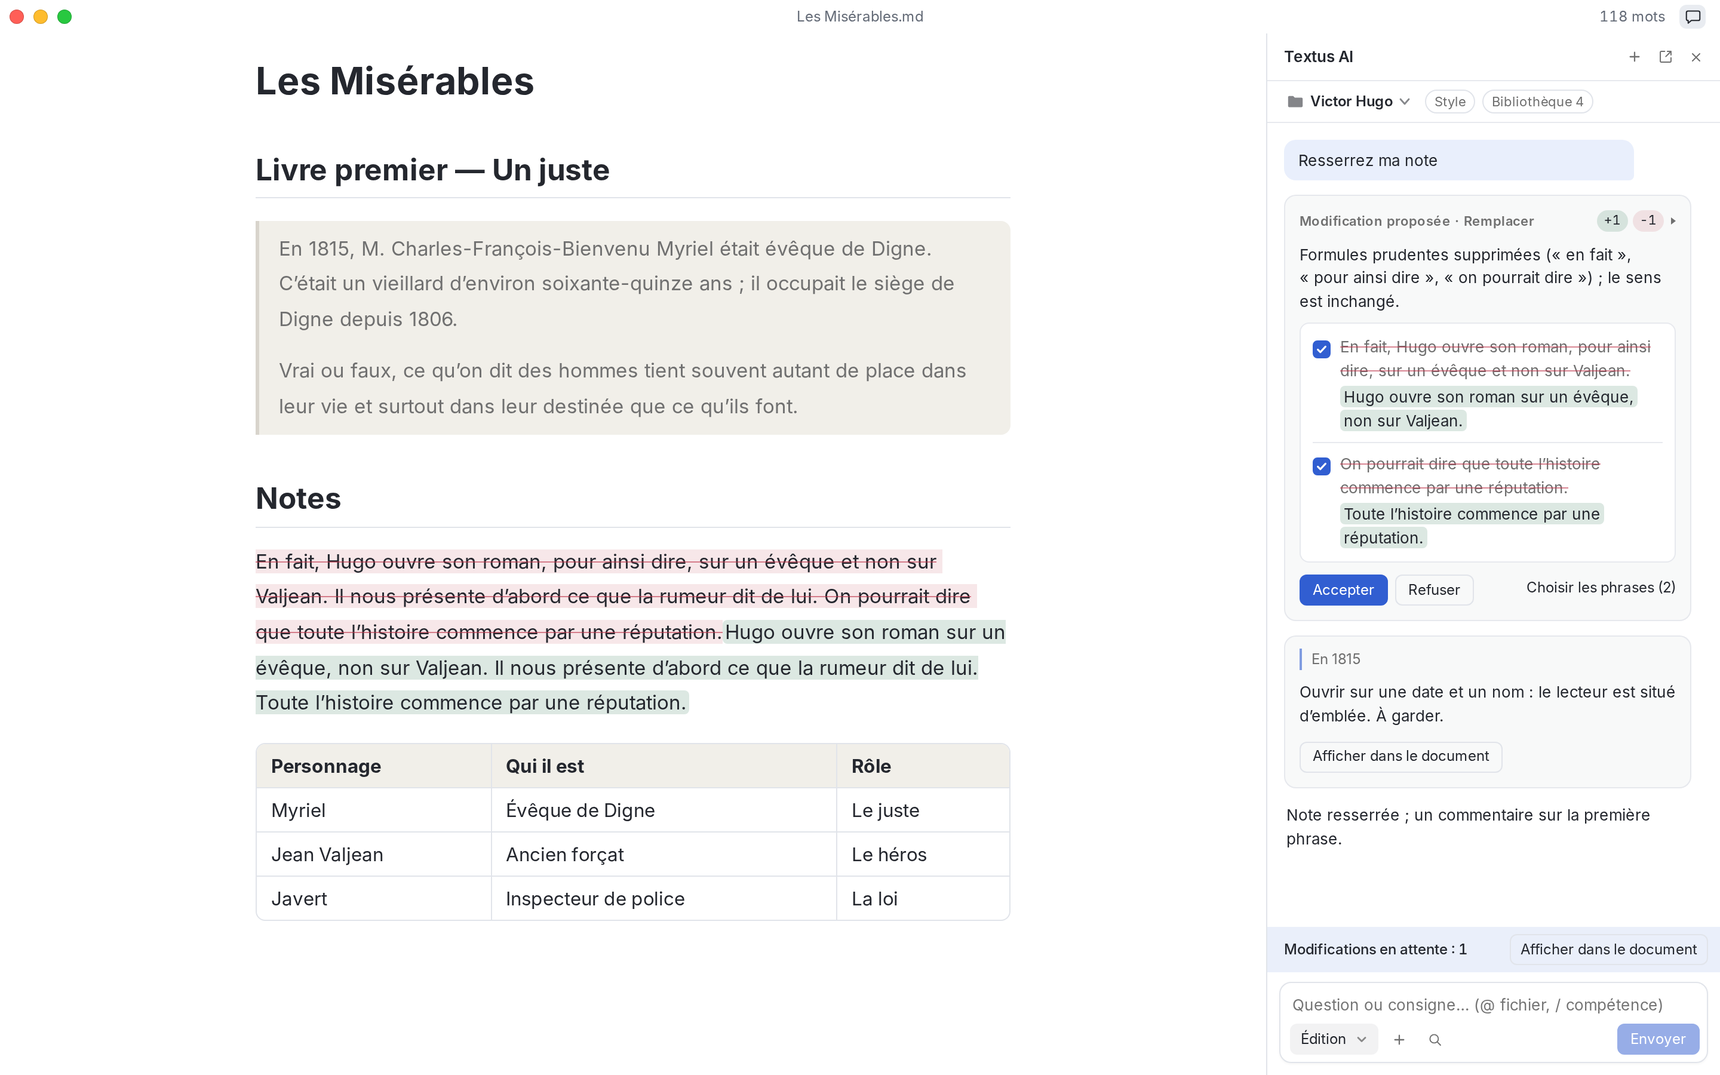
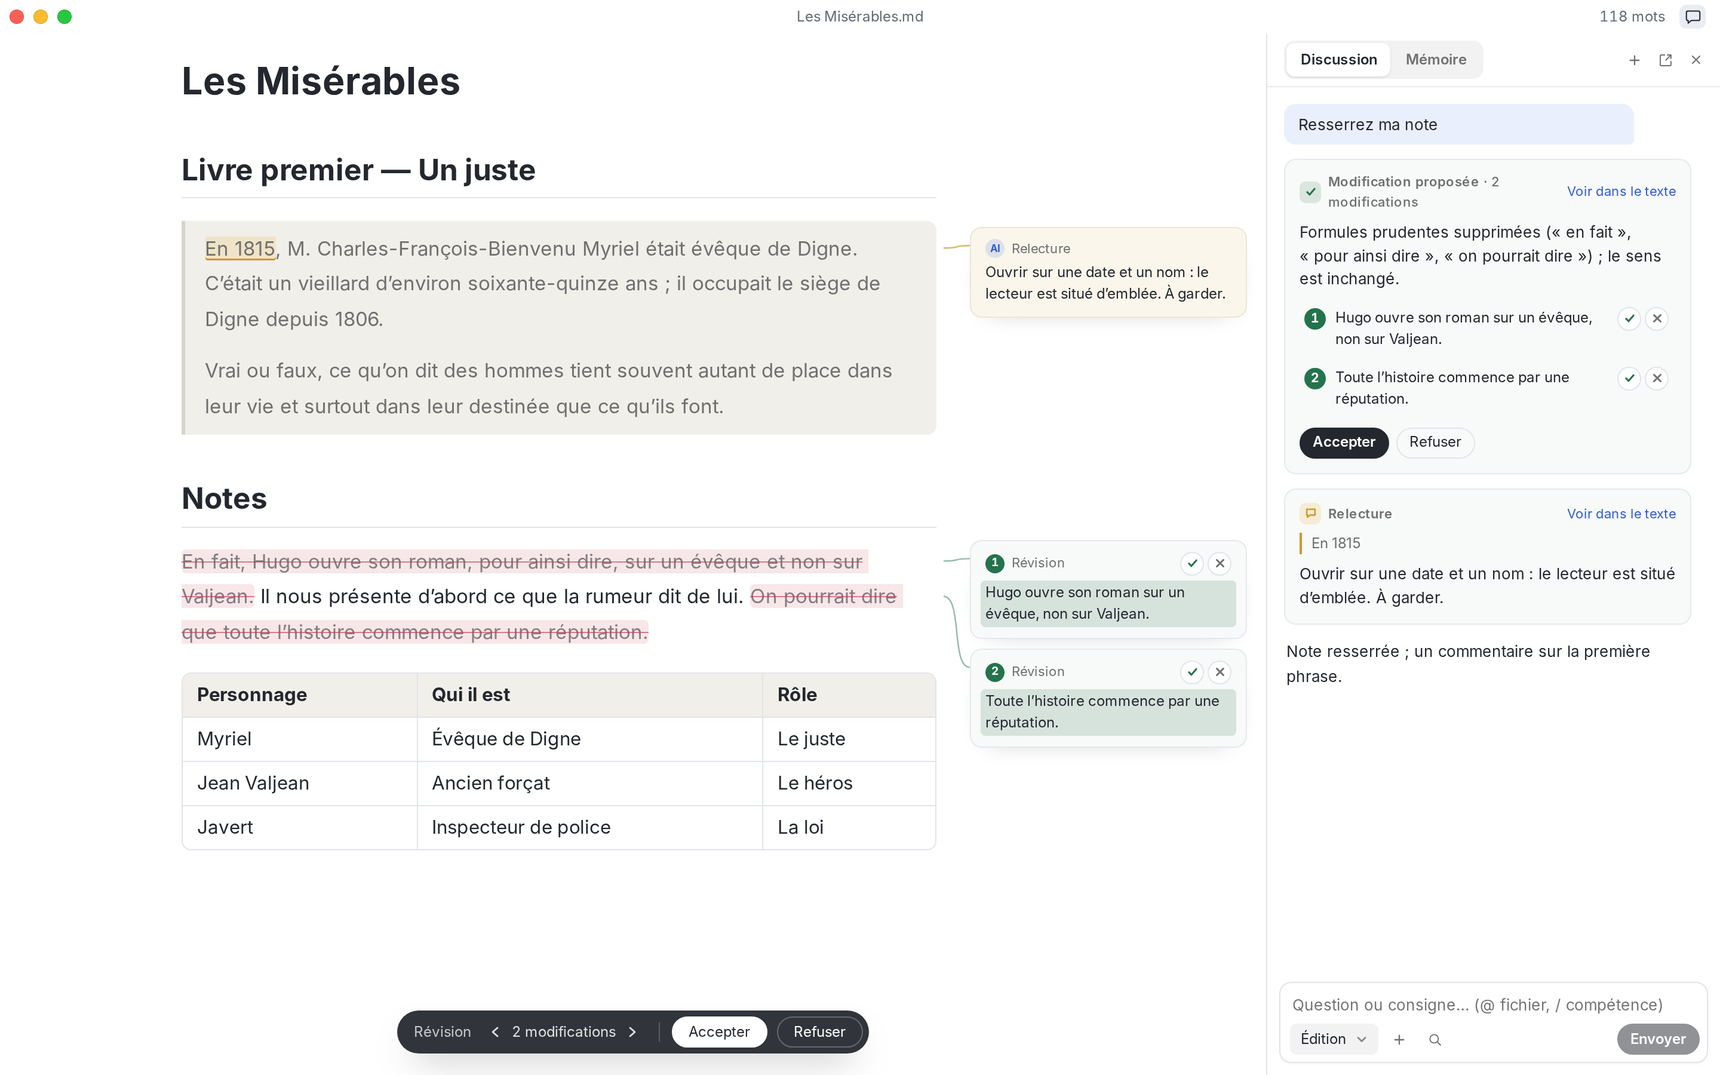
docs: README and site screenshots show the new AI surfaces
The hero shots now show the rewrite of the reader's notes in the margin
beside the review note, in all ten languages; their descriptions say so
(and name each page's own classic). Settings shots follow the new buttons.

diff --git a/e2e/website/website-shots.spec.ts b/e2e/website/website-shots.spec.ts
@@ -8,8 +8,9 @@
  * Each shot is <out>/<lang>/<name>.png (2880x1800) with a 1920-wide
  * <name>.webp beside it:
  *   hero      a classic text and a reader's note on it, the AI panel beside
- *             them with one proposed edit (its reason, the sentence picker
- *             open) and one review comment
+ *             them with one proposed edit to the note (its reason and its
+ *             two sentences, in the margin as well when there is room) and
+ *             one review comment on the classic
  *   split     split view: the Markdown source beside the page
  *   zen       zen mode, the passage being read lit
  *   math      a KaTeX formula block, inline math and a Mermaid mind map
@@ -1055,19 +1056,15 @@ for (const lang of LANGS) {
           { kind: "Assistant", text: s.reply },
         ],
       });
-      await expect(page.locator(".project-bar-name")).toHaveText(s.folder);
       const composer = page.locator(".agent-panel-view textarea");
       await composer.fill(s.ask);
       await composer.press("Enter");
       await expect(page.locator(".agent-comment")).toBeVisible();
       await expect(page.locator(".agent-proposal-reason")).toHaveText(s.reason);
-      await page.locator(".agent-proposal-picker-toggle").click();
-      await expect(page.locator(".agent-proposal-picker-list li")).toHaveCount(
-        2,
-      );
-      await expect(page.locator(".milkdown .pending-insert")).toHaveText(
-        s.edited,
-      );
+      // The rewrite sentence by sentence: marked in the text, listed in
+      // the card - and, with room for it, in the margin with the note.
+      await expect(page.locator(".milkdown .pending-sentence")).toHaveCount(2);
+      await expect(page.locator(".agent-proposal-sentences li")).toHaveCount(2);
       // The proposal's buttons and its sentence picker on one row: a label
       // too long for it drops onto a row of its own, a band of nothing.
       const middles = await page

diff --git a/README.ru.md b/README.ru.md
@@ -34,7 +34,7 @@
 </p>
 
 <p align="center">
-  <img src="docs/images/readme/ru/hero.png" alt="Textus с открытым «Гамлетом». Справа Textus AI предлагает правку с объяснением, по предложениям, и оставляет комментарий к строке." width="860" /><br>
+  <img src="docs/images/readme/ru/hero.png" alt="Textus с открытым романом «Анна Каренина» и заметками читателя. Textus AI сокращает заметки по предложениям, каждая правка на полях, и оставляет комментарий рядом с текстом." width="860" /><br>
   <sub><i>«Анна Каренина»</i>, Лев Толстой</sub>
 </p>
 

diff --git a/README.ja.md b/README.ja.md
@@ -34,7 +34,7 @@
 </p>
 
 <p align="center">
-  <img src="docs/images/readme/ja/hero.png" alt="『吾輩は猫である』を開いたTextus。横のパネルではTextus AIが一文ずつ理由を添えて修正を提案し、本文の一行にはレビューのコメントが付いている。" width="860" /><br>
+  <img src="docs/images/readme/ja/hero.png" alt="『吾輩は猫である』と読書メモを開いたTextus。Textus AIがメモを一文ずつ簡潔にし、修正は余白に並び、本文の横にはレビューのコメントが付いている。" width="860" /><br>
   <sub>夏目漱石『吾輩は猫である』</sub>
 </p>
 

diff --git a/README.fr.md b/README.fr.md
@@ -34,7 +34,7 @@
 </p>
 
 <p align="center">
-  <img src="docs/images/readme/fr/hero.png" alt="Textus avec Hamlet ouvert. À côté, Textus AI propose une modification avec son explication, phrase par phrase, et épingle un commentaire de relecture sur une ligne." width="860" /><br>
+  <img src="docs/images/readme/fr/hero.png" alt="Textus avec Les Misérables et les notes du lecteur ouvertes. Textus AI resserre les notes phrase par phrase, chaque modification dans la marge, et épingle un commentaire de relecture à côté du texte." width="860" /><br>
   <sub><i>Les Misérables</i>, Victor Hugo</sub>
 </p>
 

diff --git a/README.ko.md b/README.ko.md
@@ -34,7 +34,7 @@
 </p>
 
 <p align="center">
-  <img src="docs/images/readme/ko/hero.png" alt="『햄릿』을 연 Textus. 오른쪽의 Textus AI가 문장마다 이유를 붙여 수정을 제안하고, 한 줄에 검토 댓글을 남겼습니다." width="860" /><br>
+  <img src="docs/images/readme/ko/hero.png" alt="『메밀꽃 필 무렵』과 독서 메모를 연 Textus. Textus AI가 메모를 문장마다 다듬어 여백에 보여 주고, 원문 옆에 검토 메모를 남겼습니다." width="860" /><br>
   <sub>이효석, <i>「메밀꽃 필 무렵」</i></sub>
 </p>
 

diff --git a/README.de.md b/README.de.md
@@ -34,7 +34,7 @@
 </p>
 
 <p align="center">
-  <img src="docs/images/readme/de/hero.png" alt="Textus mit geöffnetem Hamlet. Daneben schlägt Textus AI eine Änderung mit Begründung vor, Satz für Satz, und heftet einen Kommentar an eine Zeile." width="860" /><br>
+  <img src="docs/images/readme/de/hero.png" alt="Textus mit Kafkas »Die Verwandlung« und den Notizen dazu. Textus AI strafft die Notizen Satz für Satz, jede Änderung am Rand, und heftet einen Kommentar neben den Text." width="860" /><br>
   <sub><i>Die Verwandlung</i>, Franz Kafka</sub>
 </p>
 

diff --git a/README.es.md b/README.es.md
@@ -34,7 +34,7 @@
 </p>
 
 <p align="center">
-  <img src="docs/images/readme/es/hero.png" alt="Textus con Hamlet abierto. Al lado, Textus AI propone un cambio razonado, frase a frase, y deja un comentario junto a una línea." width="860" /><br>
+  <img src="docs/images/readme/es/hero.png" alt="Textus con Don Quijote de la Mancha y las notas del lector abiertas. Textus AI condensa las notas frase a frase, cada cambio en el margen, y deja un comentario junto al texto." width="860" /><br>
   <sub><i>Don Quijote de la Mancha</i>, Miguel de Cervantes</sub>
 </p>
 

diff --git a/README.pt.md b/README.pt.md
@@ -34,7 +34,7 @@
 </p>
 
 <p align="center">
-  <img src="docs/images/readme/pt/hero.png" alt="O Textus com Hamlet aberto. Ao lado, a Textus AI propõe uma edição frase a frase, com o motivo, e fixa um comentário de revisão numa linha." width="860" /><br>
+  <img src="docs/images/readme/pt/hero.png" alt="O Textus com Dom Casmurro e as notas do leitor abertas. A Textus AI enxuga as notas frase a frase, cada mudança na margem, e fixa um comentário de revisão ao lado do texto." width="860" /><br>
   <sub><i>Dom Casmurro</i>, Machado de Assis</sub>
 </p>
 

diff --git a/README.md b/README.md
@@ -38,7 +38,7 @@
 </p>
 
 <p align="center">
-  <img src="docs/images/readme/en/hero.png" alt="Textus with Hamlet open. Beside it, Textus AI proposes an edit with its reason, sentence by sentence, and pins a review comment to a line." width="860" /><br>
+  <img src="docs/images/readme/en/hero.png" alt="Textus with Hamlet and the reader’s notes on it open. Textus AI tightens the notes sentence by sentence, each change in the margin, and pins a review note beside the play." width="860" /><br>
   <sub><i>Hamlet</i>, William Shakespeare</sub>
 </p>
 

diff --git a/README.zh-Hant.md b/README.zh-Hant.md
@@ -34,7 +34,7 @@
 </p>
 
 <p align="center">
-  <img src="docs/images/readme/zh-hant/hero.png" alt="Textus 開著《哈姆雷特》，一旁的 Textus AI 逐句提出修改並附上理由，還在一行文字旁留下審閱註解" width="860" /><br>
+  <img src="docs/images/readme/zh-hant/hero.png" alt="Textus 開著《西遊記》和一段讀書筆記，Textus AI 逐句精簡筆記，每處修改都在頁邊，並在原文旁留下審閱註解" width="860" /><br>
   <sub>吳承恩《西遊記》</sub>
 </p>
 

diff --git a/README.zh.md b/README.zh.md
@@ -34,7 +34,7 @@
 </p>
 
 <p align="center">
-  <img src="docs/images/readme/zh/hero.png" alt="Textus 打开着《红楼梦》，旁边的 Textus AI 附上理由、逐句提出修改，并在一处文字旁钉上审阅批注" width="860" /><br>
+  <img src="docs/images/readme/zh/hero.png" alt="Textus 打开着《红楼梦》和一段读书笔记，Textus AI 逐句精简笔记，每处修改都在页边，并在原文旁钉上审阅批注" width="860" /><br>
   <sub>《红楼梦》曹雪芹</sub>
 </p>
 
